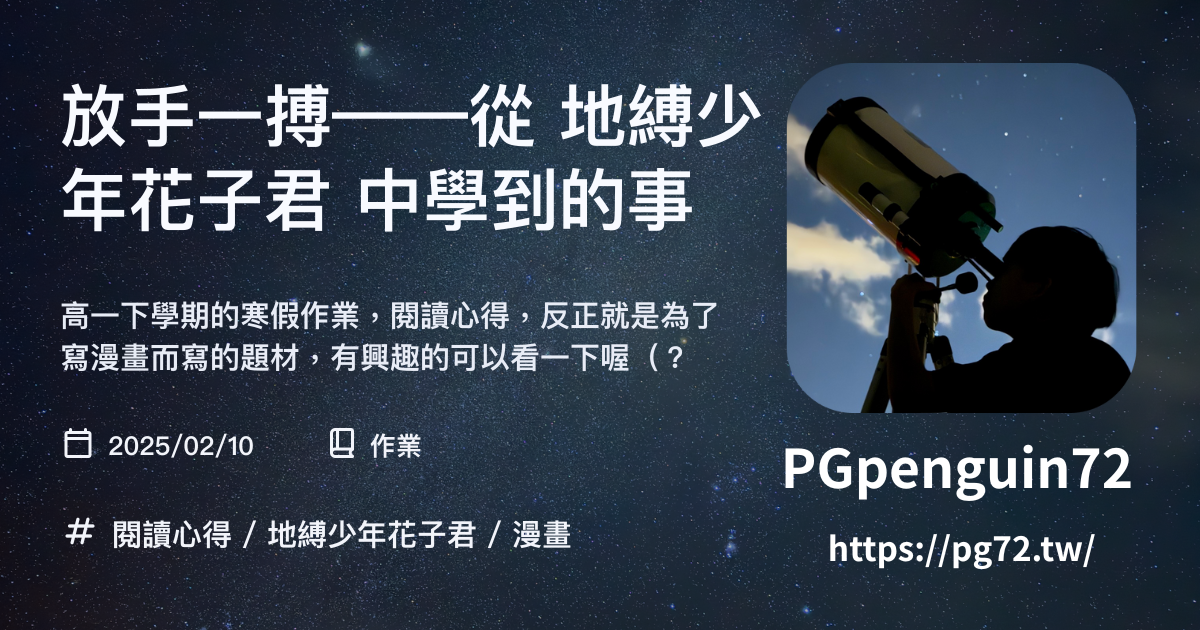
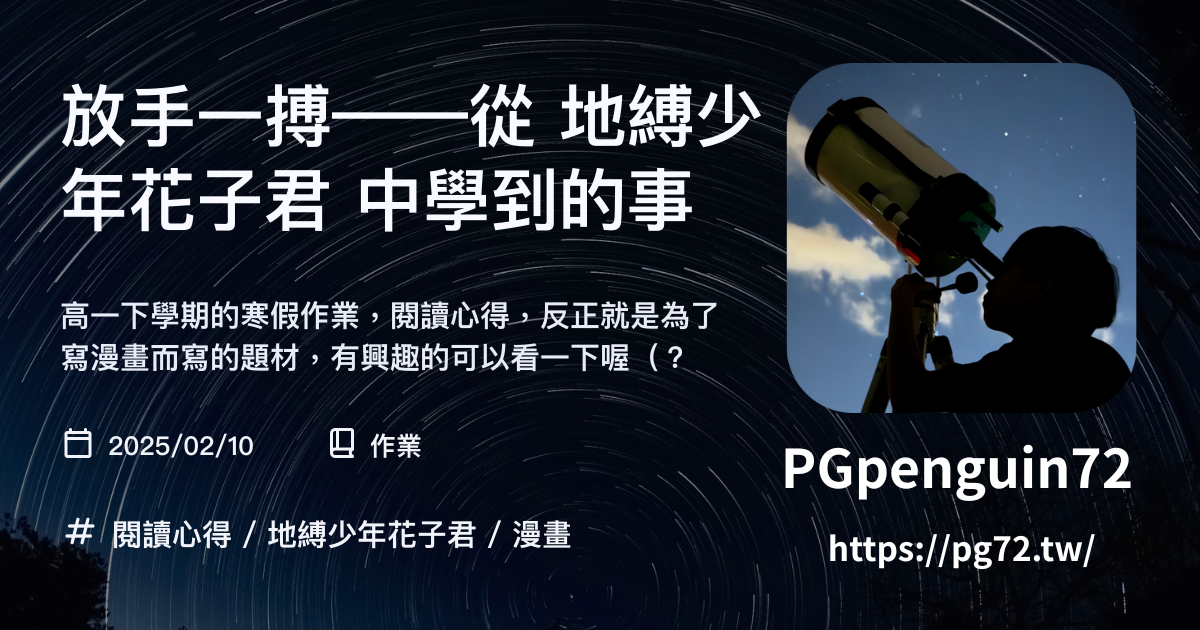
update night-star-at-tataka

diff --git a/src/data/devices.ts b/src/data/devices.ts
@@ -349,6 +349,14 @@ export const devices: DeviceMap = {
 			description: "只是一個麥克風",
 			link: "https://row.hyperx.com/zh-hant/products/hyperx-solocast-usb-microphone",
 		},
+		{
+			name: "GoPro HERO 11",
+			image:
+				"https://static.gopro.com/assets/blta2b8522e5372af40/bltc41cab6366d0ac66/645147b3d57e320df0d82a9f/pdp-h11b-SA-image03-1920-2x.png?width=3840&quality=80&auto=webp&disable=upscale",
+			specs: "Black",
+			description: "只是一台運動相機哈",
+			link: "https://gopro.com/en/us/shop/cameras/hero11-black/CHDHX-111-master.html",
+		},
 	],
 	遊戲設備: [
 		{
@@ -493,7 +501,7 @@ export const devices: DeviceMap = {
 				"https://static.tp-link.com/Archer_C7(EU_01_normal_1512031573192k.jpg",
 			specs: "WiFi-5 / 450Mbps / 1300Mbps",
 			description: "一個路由器喔",
-			link: "https://www.tp-link.com/tw/home-networking/wifi-router/archer-c7/",
+			link: "https://shop.hunder.com.hk/wp-content/webpc-passthru.php?src=https://shop.hunder.com.hk/wp-content/uploads/2020/10/tplink_AC1750-p4.jpg",
 		},
 	],
 	台中伺服器: [

diff --git a/src/config.ts b/src/config.ts
@@ -17,8 +17,8 @@ export const siteConfig: SiteConfig = {
 	},
 	banner: {
 		enable: true,
-		src: "assets/images/star1.png", // 相對於 /src 目錄。如果以 '/' 開頭，則相對於 /public 目錄
-		position: "center", // 等同於 object-position，只支援 'top', 'center', 'bottom'。默認為 'center'
+		src: "assets/images/star.png", // 相對於 /src 目錄。如果以 '/' 開頭，則相對於 /public 目錄
+		position: "bottom", // 等同於 object-position，只支援 'top', 'center', 'bottom'。默認為 'center'
 		credit: {
 			enable: true, // 顯示橫幅圖片的版權文字
 			text: "iPhone 15 Pro · PGpenguin72", // 要顯示的版權文字

diff --git a/src/friends_data.ts b/src/friends_data.ts
@@ -111,6 +111,18 @@ export const friends: Friend[] = [
 		description: "在冷圈被凍死的犟種",
 	},
 	{
+		name: "蛙",
+		url: "https://www.instagram.com/seanfrog2009/",
+		avatar: "/friends/蛙.jpg",
+		description: "青蛙找青蛙",
+	},
+	{
+		name: "傅傅得正",
+		url: "https://www.instagram.com/cn_171_11_85317/",
+		avatar: "/friends/傅傅得正.jpg",
+		description: "選對的人，做對的事",
+	},
+	{
 		name: "塵封的幻影",
 		url: "https://www.instagram.com/cat97922",
 		avatar: "/friends/塵封的幻影.jpeg",

diff --git a/src/content/posts/night_star_at_tataka/index.md b/src/content/posts/night_star_at_tataka/index.md
@@ -1,0 +1,87 @@
+---
+title: 塔塔加星夜
+published: 2026-02-11
+updated: 2026-02-15
+description: '一個很酷的星軌，趕快來看看吧！'
+image: './cover.png'
+ogImage: 'https://pg72.tw/og/night-star-at-tataka.png'
+tags: ["星空", "星軌", "Gopro"]
+category: '天文攝影'
+draft: false 
+lang: ''
+---
+
+> 這張照片由 **PGpenguin72** 拍攝，捕捉到了夜空中恆星圍繞天球極點旋轉的壯麗星軌。
+> 本頁面專門用來介紹這張圖片的背景、內容與授權資訊。
+
+---
+
+## 圖片資訊
+
+| 欄位     | 說明 |
+|----------|------|
+| 標題     | 塔塔加星夜 |
+| 說明     | 使用Gopro 進行長曝光所拍攝出的塔塔加星軌（只取其中一幀）。|
+| 拍攝時間  | 2026/02/11 凌晨12:49:19 |
+| 來源     | [pg72.tw](https://pg72.tw/posts/night_star_at_tataka/) |
+| 作者     | PGpenguin72 |
+| 檔案下載  | [PNG](https://file.pg72.tw/share/0Jk4Tn5h)、[MP4](https://file.pg72.tw/share/qLnsGt60) |
+| 解析度    | 2096 × 1179 像素（相片）、3840 × 2160 像素（影片）。|
+
+---
+
+## 圖片摘要
+
+* **北天極與星軌律動**：畫面捕捉了壯觀的同心圓星軌，圓心指向北天極（接近北極星的位置）。繁密的星光軌跡如同時間的年輪，將地球的自轉運動轉化為視覺上的幾何美感，展現了恆星在夜空中運行的規律秩序。
+
+* **時間的視覺化**：影像中密集的亮線顯示了長時間的曝光積累，將肉眼無法捕捉的「時間流逝」凝結成瞬間。深藍色的夜空背景與明亮的白色星軌形成強烈對比，營造出一種彷彿穿越時光隧道的深邃感。
+
+* **地景與構圖**：畫面兩側及底部隱約可見的樹木剪影，為浩瀚的星空提供了穩定的地景錨點。這種「天動地靜」的構圖對比，突顯了宇*宙的浩渺與自然的靜謐，讓觀者感受到置身於夜空下的渺小與寧靜。
+
+* **攝影風格**：本圖展現了耐心的長曝光攝影技術（或疊圖處理），星軌線條流暢且連續。冷色調的後製處理強化了夜空的清冽氛圍，延續了 PG企鵝 (PGpenguin72) 作品中一貫的探索精神，透過鏡頭紀錄下星辰與時間的無聲對話。:spoiler[（以上摘要由Google Gemini 生成 :D ）]
+
+---
+
+## 星軌影片：
+<iframe width="100%" height="468" src="https://www.youtube.com/embed/8vcT9FvqTig?si=50yU3rn2zcgHj5VQ" title="YouTube video player" frameborder="0" allow="accelerometer; autoplay; clipboard-write; encrypted-media; gyroscope; picture-in-picture; web-share" referrerpolicy="strict-origin-when-cross-origin" allowfullscreen></iframe>
+
+---
+
+## 拍攝與技術細節
+
+* **拍攝地點**：台灣，南投玉山塔塔加遊客中心（海拔約 2,600–2,700 公尺）。
+* **拍攝者/單位**：PGpenguin72。
+* **影像設備**：Gopro Hero 11— 24 mm ƒ2.5
+* **拍攝參數**：縮時攝影 / 星軌 / Long
+* **後製處理**：
+    * PNG：Exposure+100, Brilliance+50, HighLight+100, Shadows-30, Contrast+15, Brightness-15
+    * MP4：無
+
+---
+
+## 授權與版權資訊
+
+> 此圖片遵循 **Creative Commons Attribution 4.0 International（CC BY 4.0）** 授權條款。
+
+你可以自由地：  
+- 分享：複製、散佈與傳輸此作品。  
+- 重製與改作：在原始影像基礎上進行修改或創作衍生作品。
+
+但必須遵守以下條件：  
+- **姓名標示**：你必須適當標註來源（例如「©PGpenguin72），並附上授權條款連結。  
+- **授權聲明**：如果你做了修改，需註明「本圖片基於 PGpenguin72 影像進行編修」。  
+- 不得暗示授權人認可你或你的使用方式。
+
+推薦的授權標註範例：  
+
+> 圖片來源：PGpenguin72，依據 [CC BY 4.0](https://creativecommons.org/licenses/by/4.0/) 授權使用。
+
+---
+
+## 使用建議與注意事項
+
+- 如果你把這張圖放在網站或報告中，請在圖片下方或文末附上授權聲明。  
+- 若有多張來自同一來源的圖片，可以統一在一個「圖片來源與授權」小節集中標註。  
+- 若是在商業用途中大量使用，建議再次確認授權條款是否有更新或額外限制。
+
+
